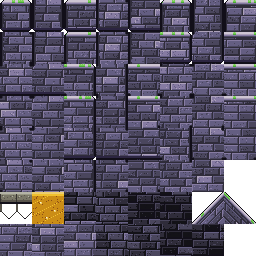
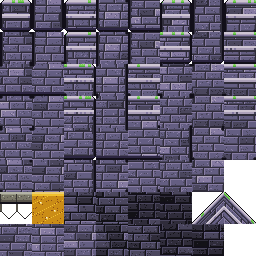
Pass 556: brick fields with structure (#627)
The ashlar of the Spires and the brick of the Inner Rings and the gym share
one body value with the odd worn stone; the gold inlay of the Spires stays
out of the darkened tiers; a masonry floor carries a string course under its
cap. Design bible 12.46.

diff --git a/tools/art/tilegen.py b/tools/art/tilegen.py
@@ -141,6 +141,62 @@ def masonry_shade(x, y, seed, dark, body, light, cell=16):
     return body
 
 
+# One body value, the odd worn block (design bible 12.45, pass 555). The Tower's
+# plates and Vorrhallow's blocks used to take one of two values on a coin toss,
+# so a field read as a checkerboard a whole shade deep, loudest in the darkened
+# interior tiers (independent grade, passes 540 and 550: "frame tiles repeat on a
+# loud grid, Tower and Vorrhallow checkered stone"). Most blocks now share the
+# body value and about one in seven is worn a shade darker.
+WORN_BLOCK = 0.86
+# The share of Vorrhallow's tiles that carry the teal tide stain. Drawn in every
+# tile it ruled a stripe across the field every 16 world pixels.
+TIDE_TILES = 0.35
+# build_tileset paints the 47 blob tiles with seeds 11 to 57 and the interior
+# tiles (MID, DEEP and the row-7 variants) with seeds from 101. Only those carry
+# the tide stain: an edge tile has no variants, so a stain on one repeats down
+# every wall face and pillar.
+INTERIOR_SEED = 101
+
+
+# The share of bricks that stand a shade proud (paint_bricks).
+PROUD_BRICK = 0.92
+
+
+def is_interior(seed):
+    """True for the seeds build_tileset gives the darkened interior tiers (MID
+    and DEEP in row 6, and their row-7 variants). The surface tiles and their
+    row-7 variants (201 to 203) are not interior."""
+    return INTERIOR_SEED <= seed < 200 or seed >= 211
+
+
+# A string course under the cap of a masonry floor (design bible 12.46, pass
+# 556): a lit line, a band of dressed stone and a shadow line, straight across
+# every top tile, so a floor reads as built (a coping on a wall) and not as a
+# brick fill that stops at the grass. World-pixel rows from the tile's top.
+COURSE_TOP = 7
+COURSE_ROWS = 3
+COURSE_ZONES = ("spires", "trials", "gym")
+
+
+def string_course(img, ox, oy, seed, x0, x1, ramp):
+    y0 = COURSE_TOP * D
+    y1 = y0 + COURSE_ROWS * D
+    for x in range(x0, x1):
+        for y in range(y0, y1):
+            if y < y0 + D:
+                col = f"{ramp}-6"
+            elif y >= y1 - D:
+                col = f"{ramp}-1"
+            else:
+                col = f"{ramp}-5" if hash2(x // 2, y // 2, seed + 41) > 0.12 else f"{ramp}-4"
+            img.putpixel((ox + x, oy + y), c(col))
+        # A butt joint now and then, so the course is laid stones and not a pipe.
+    for x in range(x0, x1):
+        if hash2(x // D, 3, seed + 43) > 0.95:
+            for y in range(y0 + D, y1 - D):
+                img.putpixel((ox + x, oy + y), c(f"{ramp}-2"))
+
+
 def paint_bricks(img, ox, oy, seed, ramp):
     """Masonry: rows of 8x4 world-pixel bricks offset per row, lit from the top
     left, with a one-render-pixel mortar line and a grain of tiny pits.
@@ -165,8 +221,9 @@ def paint_bricks(img, ox, oy, seed, ramp):
             bx = sx // bw
             by = row
             lx, ly = sx % bw, yy % bh
-            shade = 3 if hash2(bx, by, seed) > 0.45 else 2
-            if hash2(bx, by, seed + 9) > 0.92:
+            # One body value, the odd worn or proud brick (bible 12.46).
+            shade = 2 if hash2(bx, by, seed) > WORN_BLOCK else 3
+            if hash2(bx, by, seed + 9) > PROUD_BRICK:
                 shade = 4
             if ly == bh - 1 or lx == 0:
                 col = f"{ramp}-1"
@@ -195,16 +252,15 @@ def paint_shrine(img, ox, oy, seed, ramp):
     # Course scale varies with the seed so adjacent scattered variants differ.
     bw = (10 + int(hash2(seed, 7, 91) * 5)) * D  # 10..14 blocks wide
     bh = (5 + int(hash2(seed, 8, 92) * 3)) * D   # 5..7 blocks tall
+    gold = not is_interior(seed)  # the inlay is surface dressing (bible 12.46)
     for y in range(T):
         row = y // bh
         for x in range(T):
             sx = x + (row % 2) * (bw // 2) + int(hash2(row, 0, seed) * 4) * D
             bx, ly, lx = sx // bw, y % bh, sx % bw
-            shade = 4 if hash2(bx, row, seed) > 0.5 else 3
-            # A weathered stone here and there drops a shade, so the field carries
-            # block-scale value variation instead of a flat two-tone repeat.
-            if hash2(bx, row, seed + 11) > 0.82:
-                shade = max(2, shade - 1)
+            # One body value, the odd worn block (bible 12.46): a coin toss between
+            # two values made the darkened deep tiers a checkerboard.
+            shade = 3 if hash2(bx, row, seed) > WORN_BLOCK else 4
             if ly == bh - 1 or lx == 0:
                 col = f"{ramp}-1"
             elif ly == 0 or lx == 1:
@@ -218,7 +274,7 @@ def paint_shrine(img, ox, oy, seed, ramp):
             # Gold inlay: a groove across the middle of a few blocks. Rare and
             # keyed per block (not a regular course), so it reads as scattered
             # accents, never a gold dash marching across every row.
-            if ly == bh // 2 and 3 <= lx < bw - 3 and hash2(bx, row, seed + 7) > 0.82:
+            if gold and ly == bh // 2 and 3 <= lx < bw - 3 and hash2(bx, row, seed + 7) > 0.82:
                 col = "gold-4" if lx % 4 else "gold-5"
             img.putpixel((ox + x, oy + y), c(col))
     # A crack or two, running down and sideways.
@@ -230,23 +286,6 @@ def paint_shrine(img, ox, oy, seed, ramp):
                     img.putpixel((ox + x, oy + y), c(f"{ramp}-1"))
                 y += 1
                 x += 1 if hash2(seed, step, 34 + k) > 0.6 else (-1 if hash2(seed, step, 35 + k) > 0.7 else 0)
-
-
-# One body value, the odd worn block (design bible 12.45, pass 555). The Tower's
-# plates and Vorrhallow's blocks used to take one of two values on a coin toss,
-# so a field read as a checkerboard a whole shade deep, loudest in the darkened
-# interior tiers (independent grade, passes 540 and 550: "frame tiles repeat on a
-# loud grid, Tower and Vorrhallow checkered stone"). Most blocks now share the
-# body value and about one in seven is worn a shade darker.
-WORN_BLOCK = 0.86
-# The share of Vorrhallow's tiles that carry the teal tide stain. Drawn in every
-# tile it ruled a stripe across the field every 16 world pixels.
-TIDE_TILES = 0.35
-# build_tileset paints the 47 blob tiles with seeds 11 to 57 and the interior
-# tiles (MID, DEEP and the row-7 variants) with seeds from 101. Only those carry
-# the tide stain: an edge tile has no variants, so a stain on one repeats down
-# every wall face and pillar.
-INTERIOR_SEED = 101
 
 
 def paint_drowned(img, ox, oy, seed, ramp):
@@ -706,6 +745,8 @@ def paint_tile(img, ox, oy, mask, zone, seed):
             cap_girder(img, ox, oy, seed, x0, x1, ramp)
         else:
             cap_stone(img, ox, oy, seed, x0, x1, ramp)
+        if zone in COURSE_ZONES:
+            string_course(img, ox, oy, seed, x0, x1, ramp)
     # Inner corners: a dark notch where two solid sides meet an open diagonal.
     for bit, a, b, px, py in [(NE, N, E, T - D, 0), (SE, S, E, T - D, T - D), (SW, S, W, 0, T - D), (NW, N, W, 0, 0)]:
         if mask & a and mask & b and not mask & bit:

diff --git a/docs/loop/pass-556.md b/docs/loop/pass-556.md
@@ -1,0 +1,82 @@
+# Pass 556: brick fields with structure
+
+## Category
+
+Art cohesion, from the independent grade taken after pass 555 (4.2/10): "brick fields (Spires,
+Vorrhallow, Sunken, Trials) read as a flat tile-editor fill with random dark missing bricks and no
+structure", and pass 555's own "Not done": the Spires' deep tiers still alternated two values.
+
+No note from Sean was new. The queue's first item (lighting and depth) is parked for a watched
+session. Its second and third (the Haar Wyrm fight frame, the Haar's fog on the drowned stair) touch
+files that two unmerged branches of other sessions change (`hydra-cistern-fight`, `haar-steam`), so
+the pass took the fourth. The PixelLab art loop stays **gated** on Sean: three guardian bases (Haar
+Wyrm, Thane Vorrund, Drowned Warden) wait for his OK, the limit of three. No PixelLab generations
+were spent, and no Autosprite credits. The hosted workbench is still down (its Vercel Blob store is
+suspended: `push.py` answers HTTP 500); it stays under "stuck" for Sean.
+
+This pass took over a lock left at 19:16 by a run that was cut off before it branched; nothing of
+it was in the working tree.
+
+## Audit
+
+- Shot `spires/broken_shrine` and `trials/walls`. In the Spires the wall depth under the floor and
+  in the right-hand cliff was a near-black checkerboard with orange dashes: the loudest area of the
+  frame, and not the play field.
+- `paint_shrine` chose shade 4 or 3 with a coin toss, then dropped 18% of blocks one more. After the
+  two-step darkening of the deep tier that is three values down to near-black. The gold inlay, two
+  steps down, stays orange.
+- Measured the share of each tier's pixels on its commonest colour. Spires: 36%, 34% and 40% (two
+  values near a third each). Trials and gym brick: 32 to 33%, with two more colours at about 25%.
+- No masonry floor had any built line: the fill ran up to the cap and stopped.
+
+## What was built
+
+- **`tools/art/tilegen.py`**: `paint_shrine` and `paint_bricks` use `WORN_BLOCK` (one body value,
+  about one worn stone in seven; a brick may stand proud, `PROUD_BRICK`); `is_interior(seed)` and
+  no gold inlay in the darkened tiers; `string_course` under the cap of every top tile in
+  `COURSE_ZONES` (Spires, Inner Rings, gym).
+- `assets/tiles/spires.png`, `trials.png` and `gym.png` regenerated. The script again rewrote five
+  `assets/bg/*_mid.png` files that differ from run to run; those were put back.
+- Design bible 12.46 (new).
+
+## Judged by eye
+
+Looked at `spires/broken_shrine` and `trials/walls` at 1x before and after. The Spires' wall depth
+is coursed stone that darkens inward, with no checker and no orange in the dark; the eye goes to the
+islands and the hero. In the Inner Rings each pillar has a pale capital under its cap and the floor
+a coping line, and the brick is a little quieter. The Spires' course is faint under the moss and the
+rain at 1x.
+
+Not done: a plinth where a wall meets a floor, cracks and moss in the field, and Vorrhallow and the
+Sunken Spring (the same grade item). The brick of the Inner Rings is still a fine uniform bond.
+
+## Tests
+
+`tests/test_brick_structure.gd`, four tests (24 checks): the Spires' body value takes about half of
+every tier; the brick's body value leads its tier in the Inner Rings and the gym; the mid and deep
+Spires tiers have no gold and the surface keeps some; a floor tile's string course is one lit line
+over one shadow line across the whole tile, and no interior tile carries it.
+
+Mutation check: with the three old atlases put back, all four tests fail (3, 6, 2 and 6 checks).
+
+## Rubric (design bible 15.3)
+
+| Category | Weight | Score | Notes |
+| --- | --- | --- | --- |
+| Movement feel | 20 | 99 | Unchanged. |
+| Combat and enemies | 15 | 99 | Unchanged. |
+| World and level design | 15 | 99 | Unchanged; one-template rooms and the empty mid-ground remain. |
+| Art cohesion | 15 | 98 | The Spires' wall depth is quiet and masonry floors have a course. The HD hero and the guardian bases (gated art loop) remain. |
+| Bosses | 10 | 99 | Unchanged. |
+| Systems | 10 | 99 | Unchanged. |
+| Audio | 5 | 99 | Unchanged. |
+| Stability and performance | 5 | 99 | Unchanged. |
+| Story and world | 5 | 99 | Unchanged. |
+
+Weighted: 98.85. Full suite: 15,098 checks passed, 0 failed.
+
+## Next
+
+Art cohesion again, by the pass 555 grade: the rest of this item (a plinth, cracks and moss, and
+Vorrhallow and the Sunken Spring), or Vorrhallow and the Evercrown's narrow value range with one
+accent reserved for hazards. The Haar items wait until the hydra and steam branches merge.

diff --git a/docs/design-bible.md b/docs/design-bible.md
@@ -2135,6 +2135,18 @@ The pass 550 grade (and the pass 540 one before it) said the frame tiles "repeat
 
 Only `assets/tiles/tower.png`, `vorrhallow.png` and `boughs.png` are regenerated. Collision, edges, caps and outlines are untouched. `tests/test_calm_frame_tiles.gd` holds all four: under a quarter of the Tower's and Vorrhallow's interior blocks are worn and at least two are, the tide stain is on at most half the interior tiles and on no wall face, the bough fill changes colour between under 23% of neighbouring pixels and hardly at all down a column, and cells one to eight apart along a row or down a column match about as often as chance.
 
+### 12.46 Brick fields with structure: one body, a string course, gold on the surface (pass 556)
+
+The pass 555 grade said the brick fields of the Spires and the Inner Rings "read as a flat tile-editor fill with random dark missing bricks and no structure", and pass 555 left the Spires' deep tiers alternating two values. This applies 12.45's rule to the two brick painters it had not reached, and gives a masonry floor one built line.
+
+- **One body value.** `paint_shrine` (the Spires) and `paint_bricks` (the Inner Rings and the gym) chose each stone's value with a coin toss, and the shrine dropped a further fifth of its blocks a shade. Darkened for the interior tiers (12.8), the Spires' wall depth was a near-black checkerboard. Both now use `WORN_BLOCK`: one body value and about one worn stone in seven. A brick may still stand a shade proud (`PROUD_BRICK`, about one in twelve); an ashlar block may not.
+- **The gold inlay is surface dressing.** Two shades down, the Spires' inlay was orange dashes on near-black, the loudest thing in a wall's depth. `is_interior(seed)` names the seeds of the darkened tiers, and `paint_shrine` draws no gold there. Edge tiles and the surface variants keep it.
+- **A string course under the cap.** Every top tile of a masonry zone (`COURSE_ZONES`: the Spires, the Inner Rings, the gym) carries a course of dressed stone 7 world pixels under its top: a lit line, a pale band with the odd butt joint, and a shadow line. It runs straight across a floor and caps a pillar like a capital, so a floor reads as built and not as a fill that stops at the grass. Tiles inside a wall carry none. Hearthroot's ground is PixelLab art and is untouched.
+
+Only `assets/tiles/spires.png`, `trials.png` and `gym.png` are regenerated; collision and edges are untouched. `tests/test_brick_structure.gd` holds it: the Spires' body value takes about half of every tier, the brick's body value leads its tier, the mid and deep tiers have no gold while the surface keeps some, and a floor tile's course is one lit line over one shadow line that no interior tile carries.
+
+Not done from that grade item: a plinth where a wall meets a floor, cracks and moss in the field, and the same treatment for Vorrhallow and the Sunken Spring.
+
 ## 13. Asset Production Plan
 
 ### 13.1 Tools and when to use each
